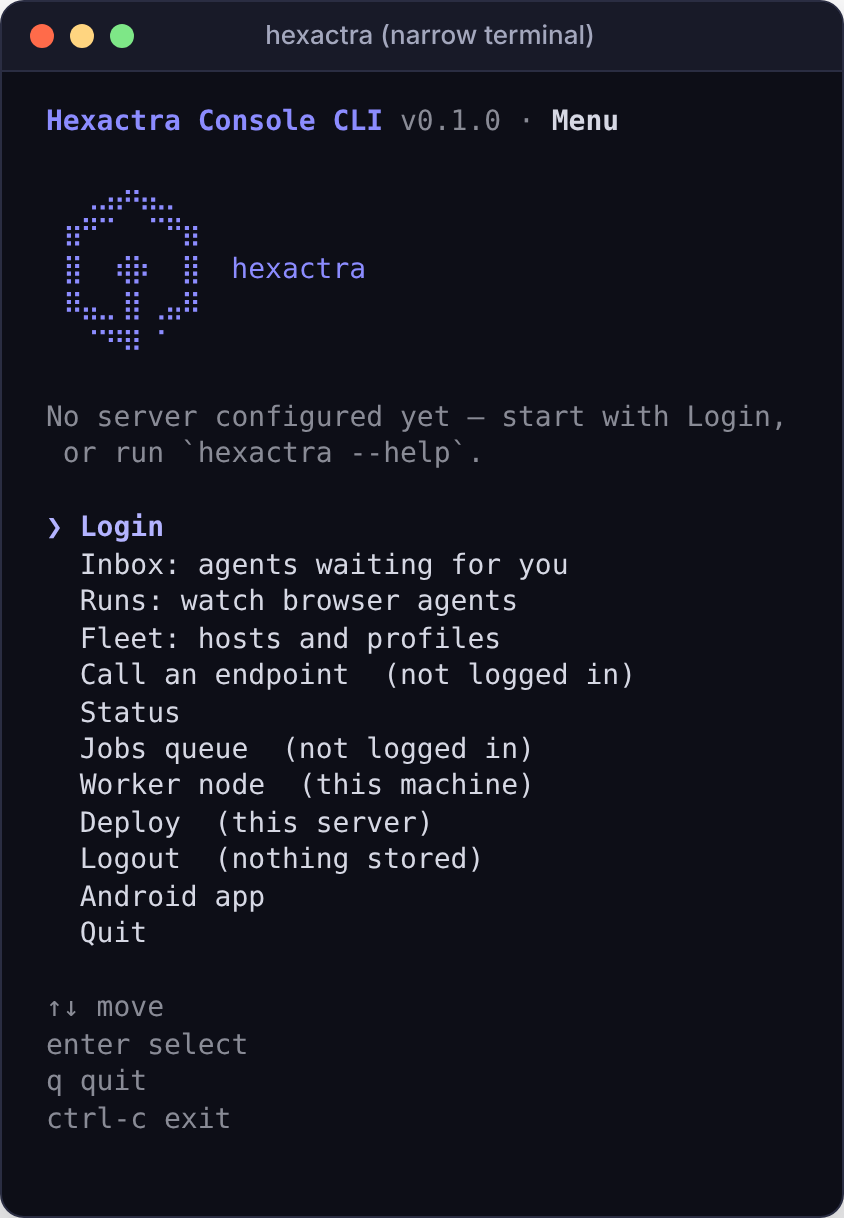
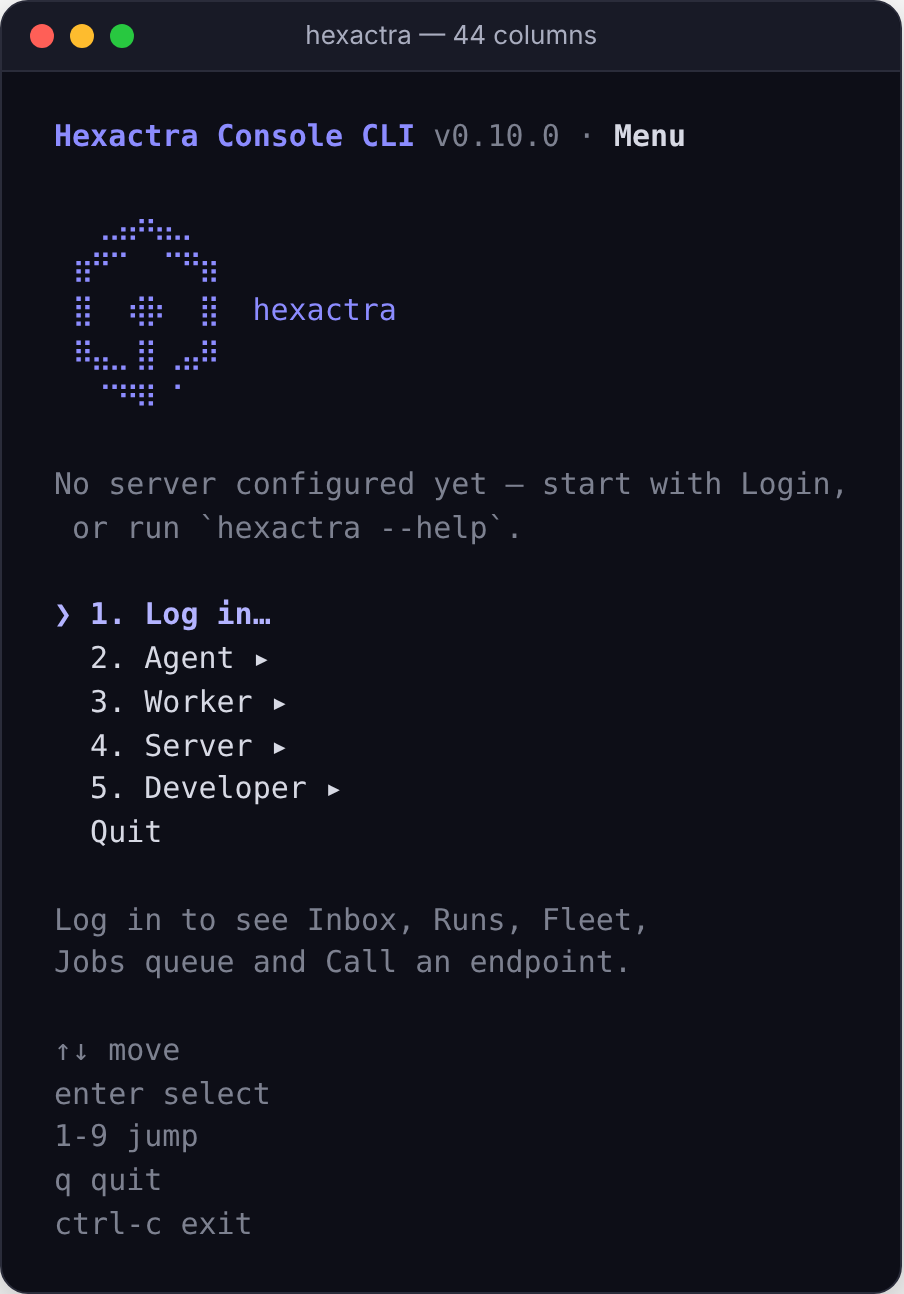
feat(cli): grouped TUI main menu that changes with the login state
The root menu was a flat list of 13 rows, the same logged in and out,
with greyed entries and the two "this machine" screens far apart.

It is now a tree registered through createCli({ tuiMenu }):
- Logged in: Agent, Worker, Server, Developer, Account.
- Logged out: Log in, then the groups usable without a server; entries
  that need a login are hidden and a root footnote says what logging in
  adds.
- Agent: Inbox, Runs, Fleet, this machine as a browser node.
  Worker: Jobs queue, worker node. Server: Deploy, Server status.
  Developer: Android app, Call an API endpoint. Account: switch, log out.

App-only: no platform change. Tests pin both states, every group, that
all 12 screens are reachable and which routes are login-gated. README
section and screenshots updated.

Fixes #357

Claude-Session: https://claude.ai/code/session_01Pne9eXLDuKAYcfZ6uLyYA4

diff --git a/console/apps/cli/src/menu.test.ts b/console/apps/cli/src/menu.test.ts
@@ -1,0 +1,118 @@
+import { createCli } from '@marinoscar/platform-cli';
+import { resetCliForTests } from '@marinoscar/platform-cli/testing';
+import {
+  BUILTIN_TUI_SCREENS,
+  buildTuiMenuTree,
+  getTuiRootMenuSlots,
+  listRegisteredTuiScreens,
+  listTuiMenuNodes,
+  resolveTuiMenuSlot,
+  tuiMenuItemLabel,
+  tuiRouteRequiresLogin,
+  visibleTuiMenuChildren,
+  type TuiMenuTree,
+} from '@marinoscar/platform-cli/tui';
+import { describe, expect, it } from 'vitest';
+
+import { APP_CLI_OPTIONS } from './app.js';
+import { HEXACTRA_TUI_MENU, LOGGED_OUT_FOOTNOTE } from './menu.js';
+
+resetCliForTests();
+createCli(APP_CLI_OPTIONS);
+
+// The grouped root menu, different logged in and logged out (#357).
+
+/** Every screen the router can open: the platform's built-ins, then the app's. */
+function allScreens(): { route: string; label: string; order: number }[] {
+  return [
+    ...BUILTIN_TUI_SCREENS.map(({ route, order }) => ({ route, order, label: route })),
+    ...listRegisteredTuiScreens().map(({ route, order }) => ({ route, order, label: route })),
+  ];
+}
+
+const tree: TuiMenuTree = buildTuiMenuTree(listTuiMenuNodes(), allScreens());
+
+/** The lines of a section, as drawn, for a login state. */
+function rows(sectionId: string, loggedIn: boolean): string[] {
+  return visibleTuiMenuChildren(sectionId, { loggedIn }, tree).map((node) => tuiMenuItemLabel(node, undefined, { loggedIn }));
+}
+
+/** Every route reachable from the root for a login state. */
+function reachable(loggedIn: boolean, sectionId = 'root'): string[] {
+  return visibleTuiMenuChildren(sectionId, { loggedIn }, tree).flatMap((node) =>
+    node.kind === 'entry' ? [node.route] : reachable(loggedIn, node.id),
+  );
+}
+
+describe('the TUI menu', () => {
+  it('is registered through createCli', () => {
+    expect(listTuiMenuNodes().map((node) => node.id)).toEqual(HEXACTRA_TUI_MENU.map((node) => node.id));
+  });
+
+  it('logged in, the root is the five groups', () => {
+    expect(rows('root', true)).toEqual(['Agent ▸', 'Worker ▸', 'Server ▸', 'Developer ▸', 'Account ▸']);
+  });
+
+  it('logged out, the root is Log in and the groups usable without a server', () => {
+    expect(rows('root', false)).toEqual(['Log in…', 'Agent ▸', 'Worker ▸', 'Server ▸', 'Developer ▸']);
+  });
+
+  it('lays out every group logged in', () => {
+    expect(rows('agent-group', true)).toEqual([
+      'Inbox: agents waiting for you',
+      'Runs: watch browser agents',
+      'Fleet: nodes and profiles',
+      'This machine as a browser node: install, Chrome, unattended desktop',
+    ]);
+    expect(rows('worker-group', true)).toEqual(['Jobs queue', 'Worker node on this machine: dashboard, doctor, logs, enroll']);
+    expect(rows('server-group', true)).toEqual([
+      'Deploy: install, update, doctor, status',
+      'Server status: URL, signed-in user, token expiry',
+    ]);
+    expect(rows('developer-group', true)).toEqual(['Android app: doctor, bump, build, publish, releases', 'Call an API endpoint…']);
+    expect(rows('account-group', true)).toEqual(['Switch account or server…', 'Log out']);
+  });
+
+  it('lays out every group logged out, without the entries that need a login', () => {
+    expect(rows('agent-group', false)).toEqual(['This machine as a browser node: install, Chrome, unattended desktop']);
+    expect(rows('worker-group', false)).toEqual(['Worker node on this machine: dashboard, doctor, logs, enroll']);
+    expect(rows('server-group', false)).toEqual(['Deploy the console on this server', 'Server status: URL, signed-in user, token expiry']);
+    expect(rows('developer-group', false)).toEqual(['Android app: doctor, bump, build, publish, releases']);
+    expect(rows('account-group', false)).toEqual([]);
+  });
+
+  it('reaches every screen once logged in, and synthesises none at the root', () => {
+    const routes = allScreens().map((screen) => screen.route);
+    expect(routes).toHaveLength(12);
+    expect(new Set(reachable(true))).toEqual(new Set(routes));
+    expect(tree.entries.filter((entry) => entry.synthesised)).toEqual([]);
+  });
+
+  it('logged out, reaches only what works without a server', () => {
+    expect(reachable(false).sort()).toEqual(['agent', 'android', 'deploy', 'login', 'node', 'status']);
+  });
+
+  it('does not login-gate the entries shown logged out', () => {
+    for (const route of ['login', 'agent', 'node', 'deploy', 'status', 'android']) {
+      expect(tuiRouteRequiresLogin(route, tree), route).toBe(false);
+    }
+    for (const route of ['inbox', 'runs', 'fleet', 'jobs', 'invoke', 'logout']) {
+      expect(tuiRouteRequiresLogin(route, tree), route).toBe(true);
+    }
+  });
+
+  it('gives every group a subtitle', () => {
+    for (const node of HEXACTRA_TUI_MENU) {
+      if (node.kind === 'section') expect(node.subtitle, node.id).toBeTruthy();
+    }
+  });
+
+  it('says under the root what logging in shows, and nothing once logged in', () => {
+    const footnote = getTuiRootMenuSlots().footnote;
+    const context = { columns: 80, sectionId: 'root', state: {} };
+    expect(resolveTuiMenuSlot(footnote, { ...context, loggedIn: false })).toEqual([...LOGGED_OUT_FOOTNOTE]);
+    expect(resolveTuiMenuSlot(footnote, { ...context, loggedIn: true })).toEqual([]);
+    // The menu truncates each line, never wraps: every line fits a 40-column terminal's frame.
+    for (const line of LOGGED_OUT_FOOTNOTE) expect(line.length).toBeLessThanOrEqual(36);
+  });
+});

diff --git a/console/apps/cli/src/menu.ts b/console/apps/cli/src/menu.ts
@@ -1,0 +1,130 @@
+import type { TuiMenuNode, TuiMenuSlotContext, TuiMenuSlots } from '@marinoscar/platform-cli/tui';
+
+/**
+ * The TUI root menu: grouped, and different logged in and logged out (#357).
+ *
+ * Logged in, the root is five groups (Agent, Worker, Server, Developer,
+ * Account). Logged out, it is Log in plus the groups that still have
+ * something usable without a server; a group with no visible entry is hidden
+ * by the platform. Entries that need a login are HIDDEN when logged out
+ * rather than greyed: the root footnote says what logging in shows.
+ *
+ * `loggedOut` cascades from a section to its entries, so every group sets it
+ * to `true` and each entry that needs a login opts out with `false`. Entries
+ * shown logged out also set `requiresLogin: false`: their screens annotate
+ * the actions that need a login themselves.
+ *
+ * Every screen the CLI registers is referenced here, so none falls back to
+ * the root (menu.test.ts pins it). Plain data only: no ink at import.
+ */
+export const HEXACTRA_TUI_MENU: readonly TuiMenuNode[] = [
+  // Logged out only: the first thing to do. Logged in it moves to Account.
+  { kind: 'entry', id: 'login', route: 'login', label: 'Log in', ellipsis: true, order: 5, loggedOut: true, hideWhenLoggedIn: true, requiresLogin: false },
+
+  // --- Agent: browser agents and the machine they run on ----------------------
+  {
+    kind: 'section',
+    id: 'agent-group',
+    label: 'Agent',
+    order: 10,
+    loggedOut: true,
+    subtitle: 'Browser agents: answer them, watch them, manage their nodes.',
+  },
+  { kind: 'entry', id: 'inbox', parent: 'agent-group', route: 'inbox', label: 'Inbox: agents waiting for you', order: 10, loggedOut: false },
+  { kind: 'entry', id: 'runs', parent: 'agent-group', route: 'runs', label: 'Runs: watch browser agents', order: 20, loggedOut: false },
+  { kind: 'entry', id: 'fleet', parent: 'agent-group', route: 'fleet', label: 'Fleet: nodes and profiles', order: 30, loggedOut: false },
+  {
+    kind: 'entry',
+    id: 'browser-node',
+    parent: 'agent-group',
+    route: 'agent',
+    label: 'This machine as a browser node: install, Chrome, unattended desktop',
+    order: 40,
+    requiresLogin: false,
+  },
+
+  // --- Worker: server background jobs ---------------------------------------
+  {
+    kind: 'section',
+    id: 'worker-group',
+    label: 'Worker',
+    order: 20,
+    loggedOut: true,
+    subtitle: "Background jobs: the server's queue and the machines that run them.",
+  },
+  { kind: 'entry', id: 'jobs', parent: 'worker-group', route: 'jobs', label: 'Jobs queue', order: 10, loggedOut: false },
+  {
+    kind: 'entry',
+    id: 'worker-node',
+    parent: 'worker-group',
+    route: 'node',
+    label: 'Worker node on this machine: dashboard, doctor, logs, enroll',
+    order: 20,
+    requiresLogin: false,
+  },
+
+  // --- Server: the console deployment ---------------------------------------
+  {
+    kind: 'section',
+    id: 'server-group',
+    label: 'Server',
+    order: 30,
+    loggedOut: true,
+    subtitle: 'The console server: install it, update it, check it.',
+  },
+  {
+    kind: 'entry',
+    id: 'deploy',
+    parent: 'server-group',
+    route: 'deploy',
+    label: ({ loggedIn }) => (loggedIn ? 'Deploy: install, update, doctor, status' : 'Deploy the console on this server'),
+    order: 10,
+    requiresLogin: false,
+  },
+  {
+    kind: 'entry',
+    id: 'server-status',
+    parent: 'server-group',
+    route: 'status',
+    label: 'Server status: URL, signed-in user, token expiry',
+    order: 20,
+    requiresLogin: false,
+  },
+
+  // --- Developer: building and debugging ------------------------------------
+  {
+    kind: 'section',
+    id: 'developer-group',
+    label: 'Developer',
+    order: 40,
+    loggedOut: true,
+    subtitle: 'Tools for building and debugging.',
+  },
+  {
+    kind: 'entry',
+    id: 'android',
+    parent: 'developer-group',
+    route: 'android',
+    label: 'Android app: doctor, bump, build, publish, releases',
+    order: 10,
+    requiresLogin: false,
+  },
+  { kind: 'entry', id: 'invoke', parent: 'developer-group', route: 'invoke', label: 'Call an API endpoint', ellipsis: true, order: 20, loggedOut: false },
+
+  // --- Account: logged in only ----------------------------------------------
+  { kind: 'section', id: 'account-group', label: 'Account', order: 50, subtitle: 'Who this CLI acts as.' },
+  { kind: 'entry', id: 'switch-account', parent: 'account-group', route: 'login', label: 'Switch account or server', ellipsis: true, order: 10 },
+  { kind: 'entry', id: 'logout', parent: 'account-group', route: 'logout', label: 'Log out', order: 20 },
+];
+
+/**
+ * Under the root menu when logged out: what logging in adds. Two short lines,
+ * because the menu truncates each line: this fits a 40-column terminal.
+ */
+export const LOGGED_OUT_FOOTNOTE = ['Log in to see Inbox, Runs, Fleet,', 'Jobs queue and Call an endpoint.'] as const;
+
+/** The root footnote slot: the logged-out hint, nothing once logged in. */
+export const ROOT_MENU_FOOTNOTE: NonNullable<TuiMenuSlots['footnote']> = {
+  content: ({ loggedIn }: TuiMenuSlotContext) => (loggedIn ? undefined : LOGGED_OUT_FOOTNOTE),
+  color: 'dim',
+};

diff --git a/console/apps/cli/src/app.ts b/console/apps/cli/src/app.ts
@@ -14,6 +14,7 @@ import { fleetCommand } from './fleet.command.js';
 import { inboxCommand } from './inbox.command.js';
 import { questionsCommand } from './questions.command.js';
 import { inboxScreen } from './inbox.tui.js';
+import { HEXACTRA_TUI_MENU } from './menu.js';
 import { mcpCommand } from './mcp.command.js';
 import { fleetScreen } from './fleet.tui.js';
 import { runsCommand } from './runs.command.js';
@@ -81,6 +82,8 @@ export const APP_CLI_OPTIONS: CreateCliOptions = {
   // The hexactra brand (docs/brand): its colours, and the Trace mark with the wordmark atop the menu.
   tuiTheme: BRAND_TUI_THEME,
   tuiMenuRoot: BRAND_TUI_MENU_ROOT,
+  // The grouped root menu, different logged in and logged out (#357): menu.ts.
+  tuiMenu: HEXACTRA_TUI_MENU,
   // This app lives in console/ of the hexactra repository: `deploy install`
   // and `deploy update` clone the whole repository (git stays at its root)
   // and run compose from console/infra/compose, whose fabric overlay builds

diff --git a/console/apps/cli/src/brand.ts b/console/apps/cli/src/brand.ts
@@ -1,6 +1,7 @@
 import type { TuiMenuSlotContext, TuiMenuSlots, TuiThemeOverrides } from '@marinoscar/platform-cli/tui';
 
 import { TRACE_MARK } from './brand-mark.js';
+import { ROOT_MENU_FOOTNOTE } from './menu.js';
 
 /**
  * The hexactra brand in the terminal (docs/brand/README.md). Terminals are
@@ -56,9 +57,10 @@ export function brandBanner(columns: number): string[] {
   return [`⬡ ${WORDMARK}`];
 }
 
-/** The TUI root menu's banner: `createCli({ tuiMenuRoot })`. */
+/** The TUI root menu's banner, and the logged-out footnote (#357): `createCli({ tuiMenuRoot })`. */
 export const BRAND_TUI_MENU_ROOT: TuiMenuSlots = {
   banner: { content: ({ columns }: TuiMenuSlotContext) => brandBanner(columns), color: 'banner' },
+  footnote: ROOT_MENU_FOOTNOTE,
 };
 
 // --- `hexactra --help` --------------------------------------------------------

diff --git a/console/apps/cli/README.md b/console/apps/cli/README.md
@@ -5,7 +5,7 @@ The `hexactra` command-line client for the hexactra Console. Assign browser goal
 Run `hexactra` with no arguments to open the terminal UI:
 
 <p align="center">
-  <img src="docs/images/tui.png" alt="The hexactra terminal UI: the Trace mark and the lowercase wordmark above the menu (Login, Inbox, Runs, Fleet, ...)" width="760">
+  <img src="docs/images/tui.png" alt="The hexactra terminal UI logged out: the Trace mark and the wordmark above the menu (Log in, Agent, Worker, Server, Developer)" width="760">
 </p>
 
 - **Every console capability, from a terminal:** tasks, runs, the handoff inbox, schedules, fleet, the fabric connection, and an MCP server for agent frameworks.
@@ -103,23 +103,34 @@ Create personal access tokens in the web app, under your settings (Access tokens
 
 ## The terminal UI
 
-Run `hexactra` with no arguments in a real terminal. Use ↑ ↓ to move, Enter to select, Esc to go back, and `q` to quit.
+Run `hexactra` with no arguments in a real terminal. Use ↑ ↓ to move, Enter to select, a digit (1-9) to jump, Esc to go up one level, and `q` to quit from the top menu.
 
-| Screen | What it does |
+The menu is grouped, and it changes with the login state (the tree is in `src/menu.ts`):
+
+| Logged in | Logged out |
 |---|---|
-| **Inbox** | What agents are waiting for: a CAPTCHA, a code, a sign-in or a confirmation. Type the answer and press Enter; a secret shows as dots. `x` declines. |
-| **Runs** | Your runs and their status. Enter opens a run's steps, `c` cancels a run, `r` refreshes. |
-| **Fleet** | Browser hosts and their profiles. `d` drains or undrains a host, `r` refreshes. |
-| **Agent** | This machine as a browser host: its install, browser, service and Fleet state. `i` installs (or repairs), `u` updates, `s` starts or stops, `r` restarts, `l` shows the log, `x` uninstalls. |
-| **Call an endpoint** | Any REST call, interactively. |
-| **Status**, **Jobs queue** | The server's health and its background job queue. |
-| **Worker node**, **Deploy** | Run this machine as a worker node, or install and update the console on a server. |
-| **Android app** | Build, sign and publish the Android app (for maintainers). |
+| Agent ▸, Worker ▸, Server ▸, Developer ▸, Account ▸, Quit | Log in…, Agent ▸, Worker ▸, Server ▸, Developer ▸, Quit |
+
+Logged out, the entries that need a server are hidden, and a note under the menu says what logging in adds.
+
+| Group | Entry | What it does | Logged out |
+|---|---|---|---|
+| **Agent** | **Inbox** | What agents are waiting for: a CAPTCHA, a code, a sign-in or a confirmation. Type the answer and press Enter; a secret shows as dots. `x` declines. | hidden |
+| | **Runs** | Your runs and their status. Enter opens a run's steps, `c` cancels a run, `r` refreshes. | hidden |
+| | **Fleet** | Browser nodes and their profiles. `o` shows a node's desktop link, `d` drains or undrains a node, `r` refreshes. | hidden |
+| | **This machine as a browser node** | Its install, browser, service and Fleet state. `i` installs (or repairs), `u` updates, `s` starts or stops, `r` restarts, `l` shows the log, `c` sets up Google Chrome, `n` installs an unattended node, `d` runs the doctor, `x` uninstalls. | shown (installing asks you to log in) |
+| **Worker** | **Jobs queue** | The server's background job queue. | hidden |
+| | **Worker node on this machine** | Run this machine as a worker for server jobs: dashboard, doctor, logs, register, enroll. | shown |
+| **Server** | **Deploy** | Install, update and check the console on this server (doctor, install, update, status). | shown |
+| | **Server status** | The server, the signed-in user and the token's expiry. | shown |
+| **Developer** | **Android app** | Build, sign and publish the Android app (for maintainers): doctor, bump, build, publish, releases. | shown (publishing needs a login) |
+| | **Call an API endpoint** | Any REST call, interactively. | hidden |
+| **Account** | **Switch account or server**, **Log out** | Log in again (another account or server), or clear the stored login. | hidden (Log in is first instead) |
 
 The UI adapts to the terminal width. On a narrow terminal it shows a smaller mark and drops the border:
 
 <p align="center">
-  <img src="docs/images/narrow.png" alt="The terminal UI in a 44-column terminal: a smaller Trace mark and the menu without a border" width="420">
+  <img src="docs/images/narrow.png" alt="The terminal UI in a 44-column terminal: a smaller Trace mark and the grouped menu without a border" width="420">
 </p>
 
 **Colors:**
@@ -218,7 +229,7 @@ hexactra agent doctor                 # every check, and how to fix what fails (
 - **Graphics.** With Intel or AMD graphics, Chrome renders on the GPU. Without them, `agent doctor` warns that rendering is in software.
 - **Other commands.** `status`, `doctor` and `update` cover it; `logs`, `start`, `stop`, `restart` and `uninstall` take `--mode unattended`. `uninstall` keeps the browser profiles unless you add `--purge-profiles`.
 - **Options.** `--resolution 1920x1080` sets the screen size, and `--max-browsers` the number of profiles open at once.
-- **TUI.** Key `n` in the **Agent** screen does the same install.
+- **TUI.** Key `n` in **Agent ▸ This machine as a browser node** does the same install.
 
 **Google Chrome (`--google-chrome`, or `hexactra agent chrome setup`).** Nodes run branded Google Chrome ([docs/nodes.md](../../../docs/nodes.md)). Chrome no longer loads unpacked extensions, so the CLI sets it up in three steps:
 1. Installs Google Chrome from Google's official `.deb`, if it is missing. That also adds Google's apt repository, so the system keeps Chrome updated.
